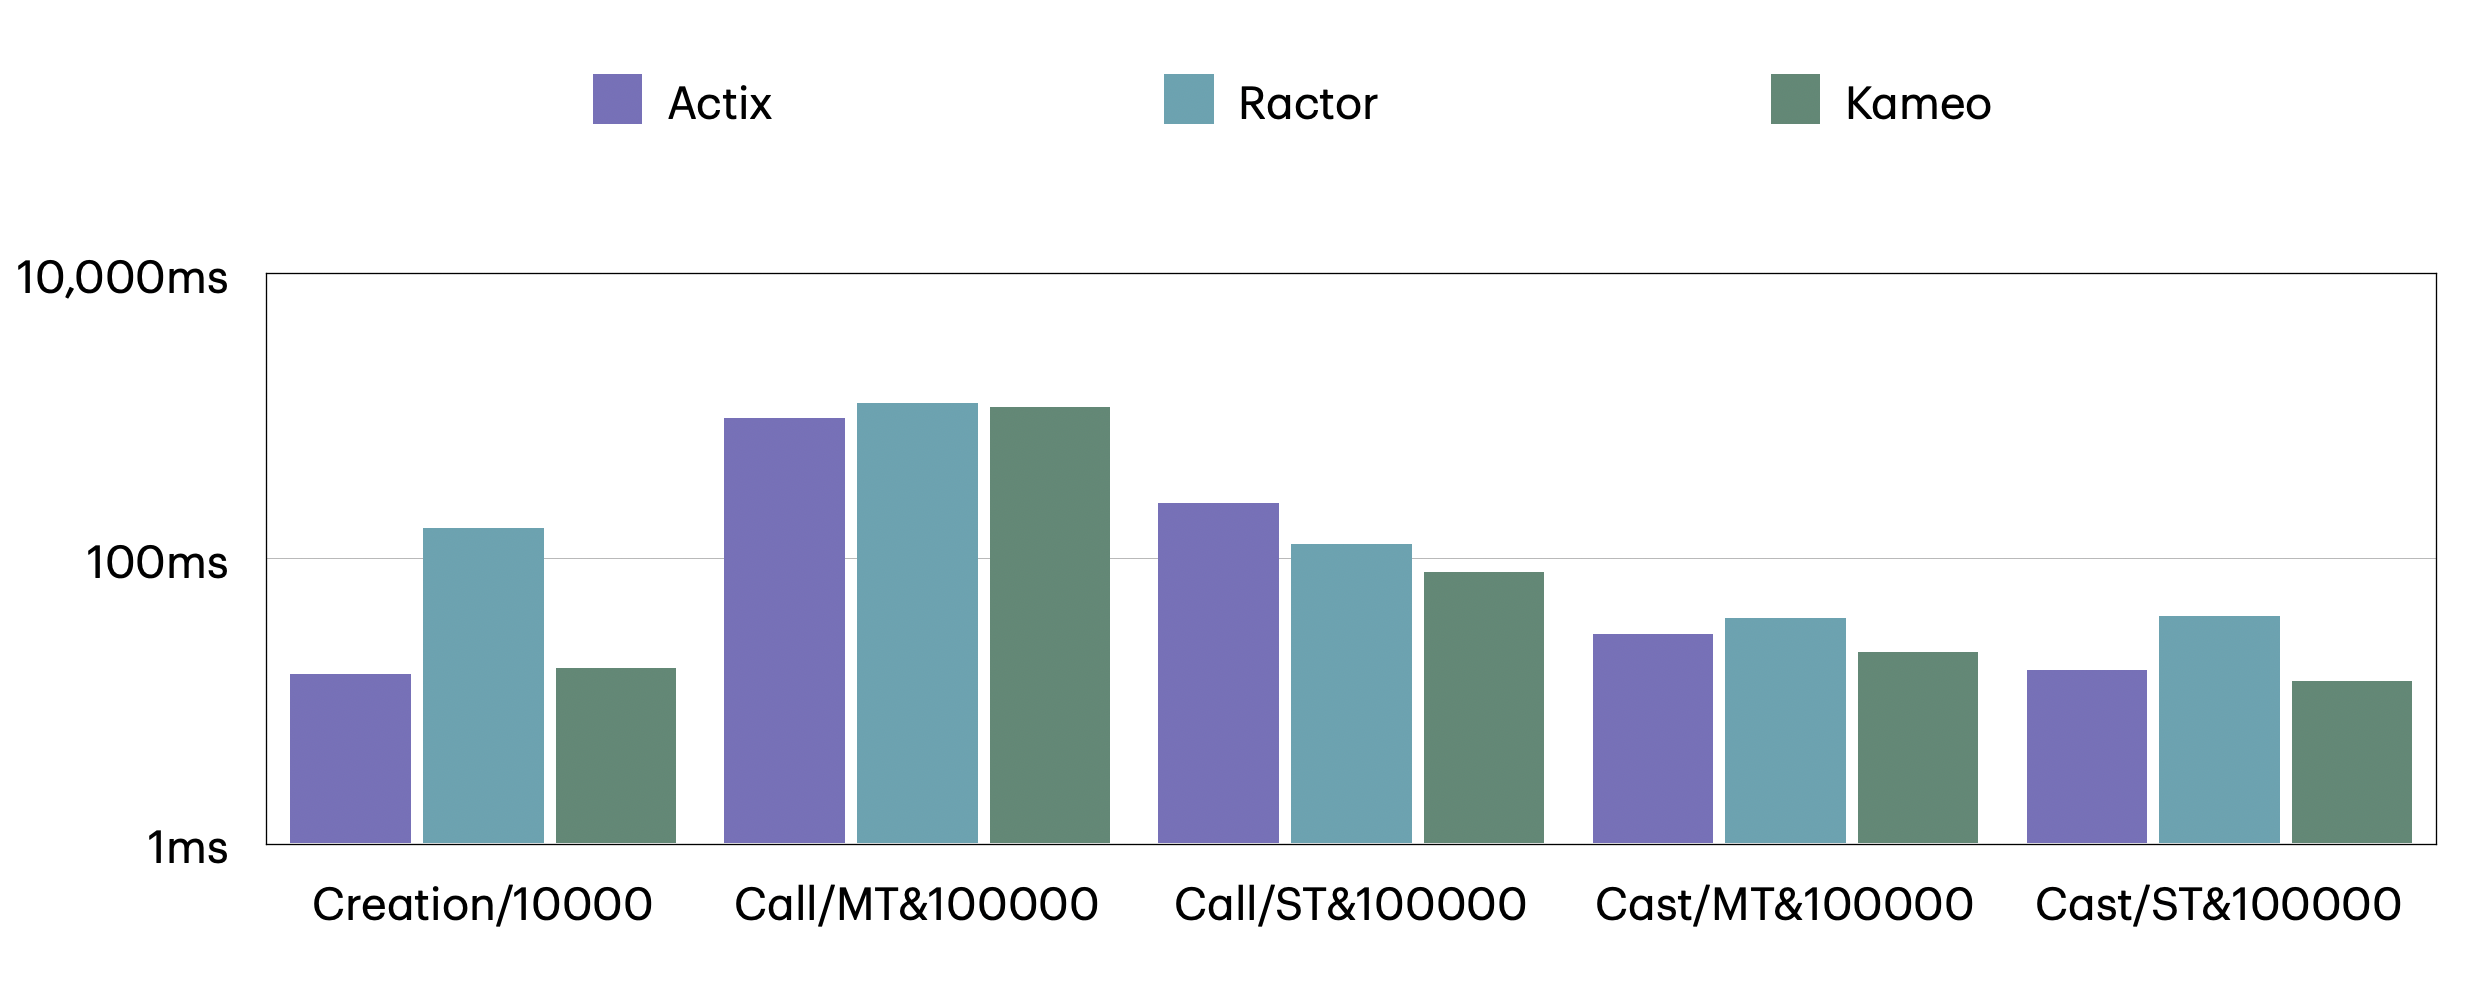
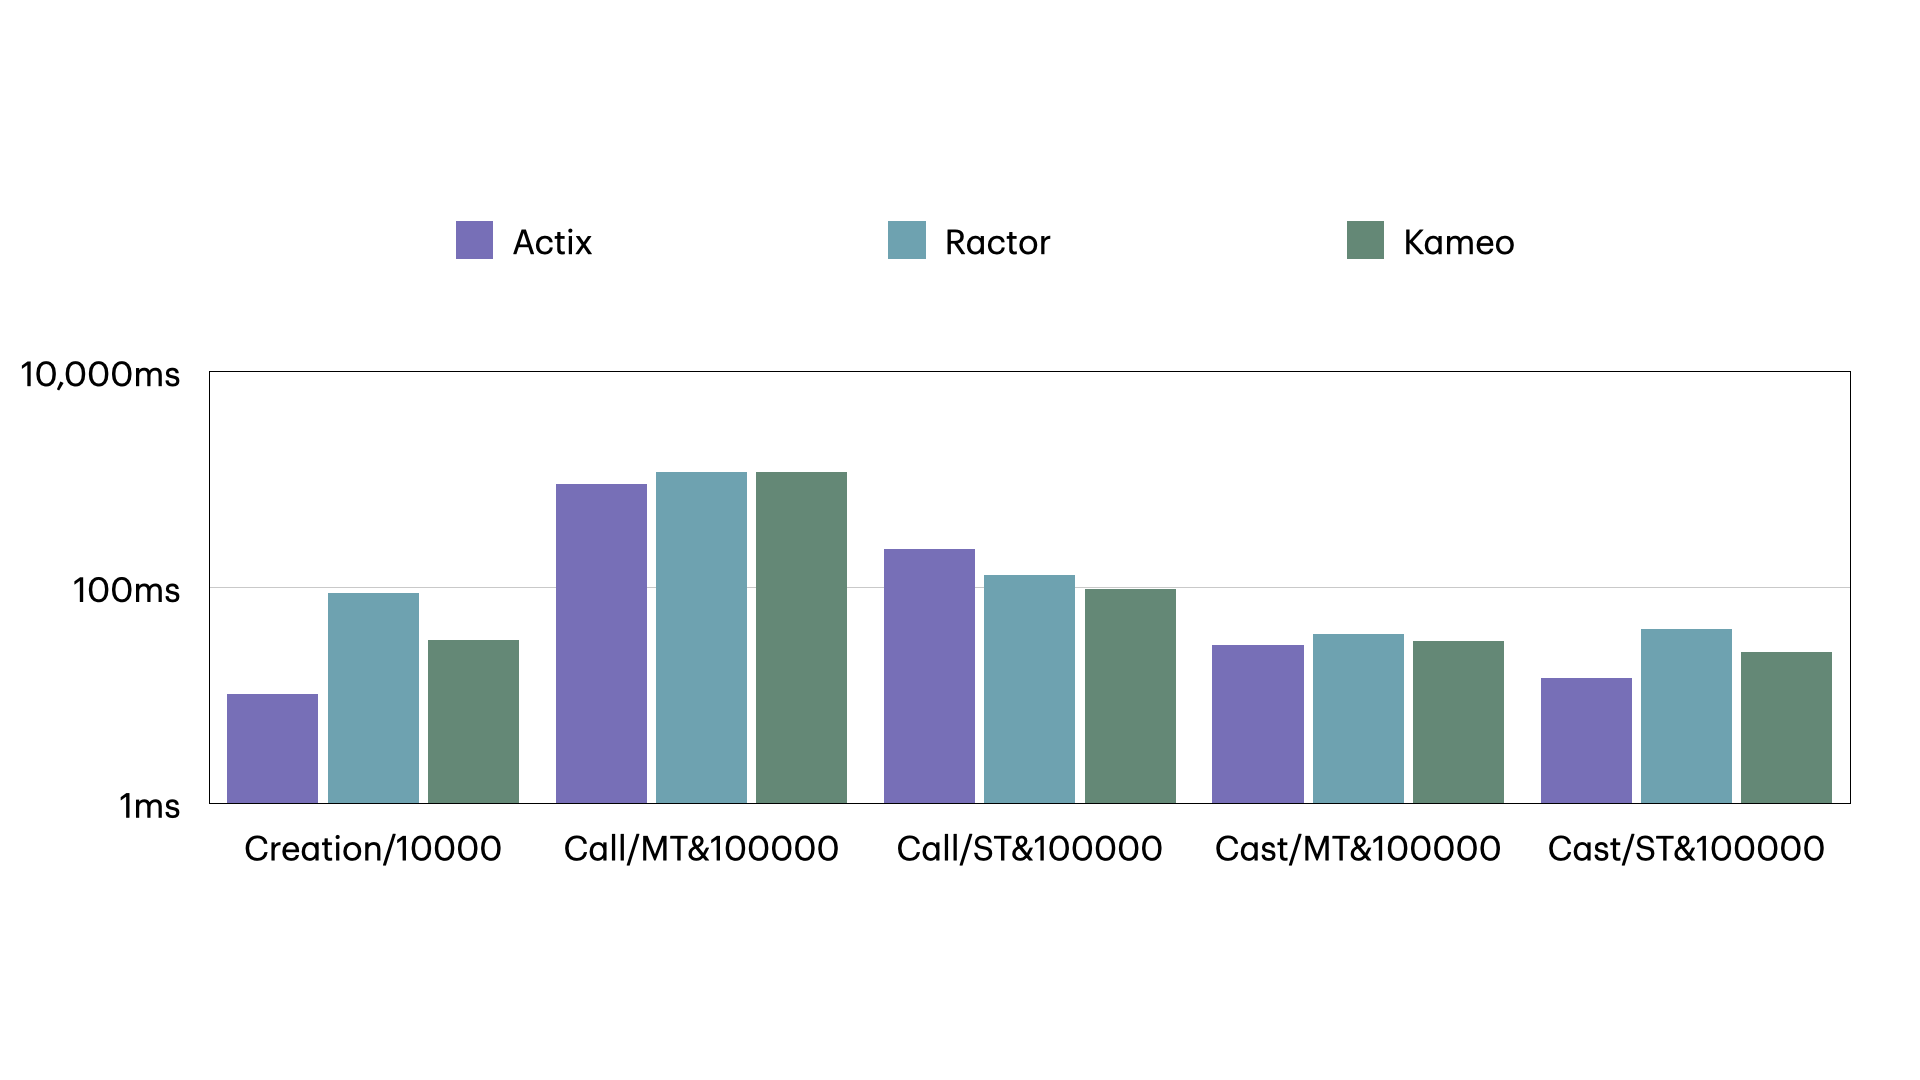
chore: upgrade ractor impls

diff --git a/benches/kameo.rs b/benches/kameo.rs
@@ -7,7 +7,9 @@ use criterion::{BatchSize, Criterion};
 use kameo::{
     actor::ActorRef,
     error::BoxError,
+    mailbox::unbounded::UnboundedMailbox,
     message::{Context, Message},
+    request::MessageSend,
     Actor,
 };
 
@@ -16,6 +18,8 @@ fn create_actors(c: &mut Criterion) {
     struct BenchActor;
 
     impl Actor for BenchActor {
+        type Mailbox = UnboundedMailbox<Self>;
+
         fn on_start(
             &mut self,
             _actor_ref: ActorRef<Self>,
@@ -52,7 +56,7 @@ fn create_actors(c: &mut Criterion) {
                 runtime.block_on(async move {
                     let mut actor_refs = vec![];
                     for _ in 0..small {
-                        let actor_ref = kameo::actor::spawn_unsync(BenchActor);
+                        let actor_ref = kameo::actor::spawn(BenchActor);
                         actor_refs.push(actor_ref);
                     }
                     actor_refs
@@ -71,7 +75,7 @@ fn create_actors(c: &mut Criterion) {
                 runtime.block_on(async move {
                     let mut actor_refs = vec![];
                     for _ in 0..large {
-                        let actor_ref = kameo::actor::spawn_unsync(BenchActor);
+                        let actor_ref = kameo::actor::spawn(BenchActor);
                         actor_refs.push(actor_ref);
                     }
                     actor_refs
@@ -95,6 +99,8 @@ fn process_messages(c: &mut Criterion) {
     }
 
     impl Actor for MessagingActor {
+        type Mailbox = UnboundedMailbox<Self>;
+
         fn on_start(
             &mut self,
             _actor_ref: ActorRef<Self>,
@@ -119,23 +125,18 @@ fn process_messages(c: &mut Criterion) {
         }
     }
 
-    let id = format!(
-        "Waiting on {NUM_MSGS} messages to be processed [ by single-threaded + send_async ]"
-    );
+    let id =
+        format!("Waiting on {NUM_MSGS} messages to be processed [ by single-threaded + tell ]");
     let runtime = tokio::runtime::Builder::new_current_thread()
         .build()
         .unwrap();
     c.bench_function(&id, move |b| {
         b.iter_batched(
-            || {
-                runtime.block_on(
-                    async move { kameo::actor::spawn_unsync(MessagingActor { state: 0 }) },
-                )
-            },
+            || runtime.block_on(async move { kameo::actor::spawn(MessagingActor { state: 0 }) }),
             |actor_ref| {
                 runtime.block_on(async move {
                     for _ in 0..NUM_MSGS {
-                        let _ = actor_ref.send_async(BenchActorMessage { n: 1 });
+                        let _ = actor_ref.tell(BenchActorMessage { n: 1 }).send().await;
                     }
                     actor_ref
                 })
@@ -144,23 +145,18 @@ fn process_messages(c: &mut Criterion) {
         );
     });
 
-    let id =
-        format!("Waiting on {NUM_MSGS} messages to be processed [ by single-threaded + send ]");
+    let id = format!("Waiting on {NUM_MSGS} messages to be processed [ by single-threaded + ask ]");
     let runtime = tokio::runtime::Builder::new_current_thread()
         .enable_time()
         .build()
         .unwrap();
     c.bench_function(&id, move |b| {
         b.iter_batched(
-            || {
-                runtime.block_on(
-                    async move { kameo::actor::spawn_unsync(MessagingActor { state: 0 }) },
-                )
-            },
+            || runtime.block_on(async move { kameo::actor::spawn(MessagingActor { state: 0 }) }),
             |actor_ref| {
                 runtime.block_on(async move {
                     for _ in 0..NUM_MSGS {
-                        let _ = actor_ref.send(BenchActorMessage { n: 1 }).await;
+                        let _ = actor_ref.ask(BenchActorMessage { n: 1 }).send().await;
                     }
                     actor_ref
                 })
@@ -169,21 +165,15 @@ fn process_messages(c: &mut Criterion) {
         );
     });
 
-    let id = format!(
-        "Waiting on {NUM_MSGS} messages to be processed [ by multi-threaded + send_async ]"
-    );
+    let id = format!("Waiting on {NUM_MSGS} messages to be processed [ by multi-threaded + tell ]");
     let runtime = tokio::runtime::Builder::new_multi_thread().build().unwrap();
     c.bench_function(&id, move |b| {
         b.iter_batched(
-            || {
-                runtime.block_on(
-                    async move { kameo::actor::spawn_unsync(MessagingActor { state: 0 }) },
-                )
-            },
+            || runtime.block_on(async move { kameo::actor::spawn(MessagingActor { state: 0 }) }),
             |actor_ref| {
                 runtime.block_on(async move {
                     for _ in 0..NUM_MSGS {
-                        let _ = actor_ref.send_async(BenchActorMessage { n: 1 });
+                        let _ = actor_ref.tell(BenchActorMessage { n: 1 }).send().await;
                     }
                     actor_ref
                 })
@@ -192,22 +182,18 @@ fn process_messages(c: &mut Criterion) {
         );
     });
 
-    let id = format!("Waiting on {NUM_MSGS} messages to be processed [ by multi-threaded + send ]");
+    let id = format!("Waiting on {NUM_MSGS} messages to be processed [ by multi-threaded + ask ]");
     let runtime = tokio::runtime::Builder::new_multi_thread()
         .enable_time()
         .build()
         .unwrap();
     c.bench_function(&id, move |b| {
         b.iter_batched(
-            || {
-                runtime.block_on(
-                    async move { kameo::actor::spawn_unsync(MessagingActor { state: 0 }) },
-                )
-            },
+            || runtime.block_on(async move { kameo::actor::spawn(MessagingActor { state: 0 }) }),
             |actor_ref| {
                 runtime.block_on(async move {
                     for _ in 0..NUM_MSGS {
-                        let _ = actor_ref.send(BenchActorMessage { n: 1 }).await;
+                        let _ = actor_ref.ask(BenchActorMessage { n: 1 }).send().await;
                     }
                     actor_ref
                 })

diff --git a/README.md b/README.md
@@ -5,37 +5,37 @@
 - CPU: 3.1 GHz Quad-Core Intel Core i7
 - Memory: 16 GB 2133 MHz LPDDR3
 - MacOS: 13.6.5
-- Rust: 1.78
-- Actix: 0.13.3
-- Ractor: 0.9.7
-- Kameo: 0.8.0
+- Rust: 1.81
+- Actix: 0.13.5
+- Ractor: 0.11.1
+- Kameo: 0.10.0
 
 ## cargo bench --bench [actix](https://github.com/actix/actix)
 
-- Creation of 100 actors time: **55.924 µs**
-- Creation of 10000 actors time: **15.639 ms**
-- Waiting on 100000 messages to be processed [ by **single-threaded + do_send** ] time: **16.563 ms**
-- Waiting on 100000 messages to be processed [ by **multi-threaded + do_send** ] time: **29.702 ms**
-- Waiting on 100000 messages to be processed [ by **single-threaded + send** ] time: **244.69 ms**
-- Waiting on 100000 messages to be processed [ by **multi-threaded + send** ] time: **963.50 ms**
+- Creation of 100 actors time: **51.671 µs**
+- Creation of 10000 actors time: **10.423 ms**
+- Waiting on 100000 messages to be processed [ by **single-threaded + do_send** ] time: **14.529 ms**
+- Waiting on 100000 messages to be processed [ by **multi-threaded + do_send** ] time: **29.625 ms**
+- Waiting on 100000 messages to be processed [ by **single-threaded + send** ] time: **229.12 ms**
+- Waiting on 100000 messages to be processed [ by **multi-threaded + send** ] time: **922.30 ms**
 
 ## cargo bench --bench [ractor](https://github.com/slawlor/ractor)
 
-- Creation of 100 actors time: **1.6219 ms**
-- Creation of 10000 actors time: **164.34 ms**
-- Waiting on 100000 messages to be processed [ by **single-threaded + cast** ] time: **39.842 ms**
-- Waiting on 100000 messages to be processed [ by **multi-threaded + cast** ] time: **38.489 ms**
-- Waiting on 100000 messages to be processed [ by **single-threaded + call** ] time: **126.76 ms**
-- Waiting on 100000 messages to be processed [ by **multi-threaded + call** ] time: **1.2307 s**
+- Creation of 100 actors time: **973.40 µs**
+- Creation of 10000 actors time: **88.813 ms**
+- Waiting on 100000 messages to be processed [ by **single-threaded + cast** ] time: **41.151 ms**
+- Waiting on 100000 messages to be processed [ by **multi-threaded + cast** ] time: **37.146 ms**
+- Waiting on 100000 messages to be processed [ by **single-threaded + call** ] time: **129.63 ms**
+- Waiting on 100000 messages to be processed [ by **multi-threaded + call** ] time: **1.1816 s**
 
 ## cargo bench --bench [kameo](https://github.com/tqwewe/kameo)
 
-- Creation of 100 actors time: **155.83 µs**
-- Creation of 10000 actors time: **17.216 ms**
-- Waiting on 100000 messages to be processed [ by **single-threaded + send_async** ] time: **13.898 ms**
-- Waiting on 100000 messages to be processed [ by **multi-threaded + send_async** ] time: **22.205 ms**
-- Waiting on 100000 messages to be processed [ by **single-threaded + send** ] time: **80.683 ms**
-- Waiting on 100000 messages to be processed [ by **multi-threaded + send** ] time: **1.1576 s**
+- Creation of 100 actors time: **182.82 µs**
+- Creation of 10000 actors time: **32.876 ms**
+- Waiting on 100000 messages to be processed [ by **single-threaded + tell** ] time: **25.228 ms**
+- Waiting on 100000 messages to be processed [ by **multi-threaded + tell** ] time: **32.182 ms**
+- Waiting on 100000 messages to be processed [ by **single-threaded + ask** ] time: **98.135 ms**
+- Waiting on 100000 messages to be processed [ by **multi-threaded + ask** ] time: **1.1727 s**
 
 ## Comparison
 
